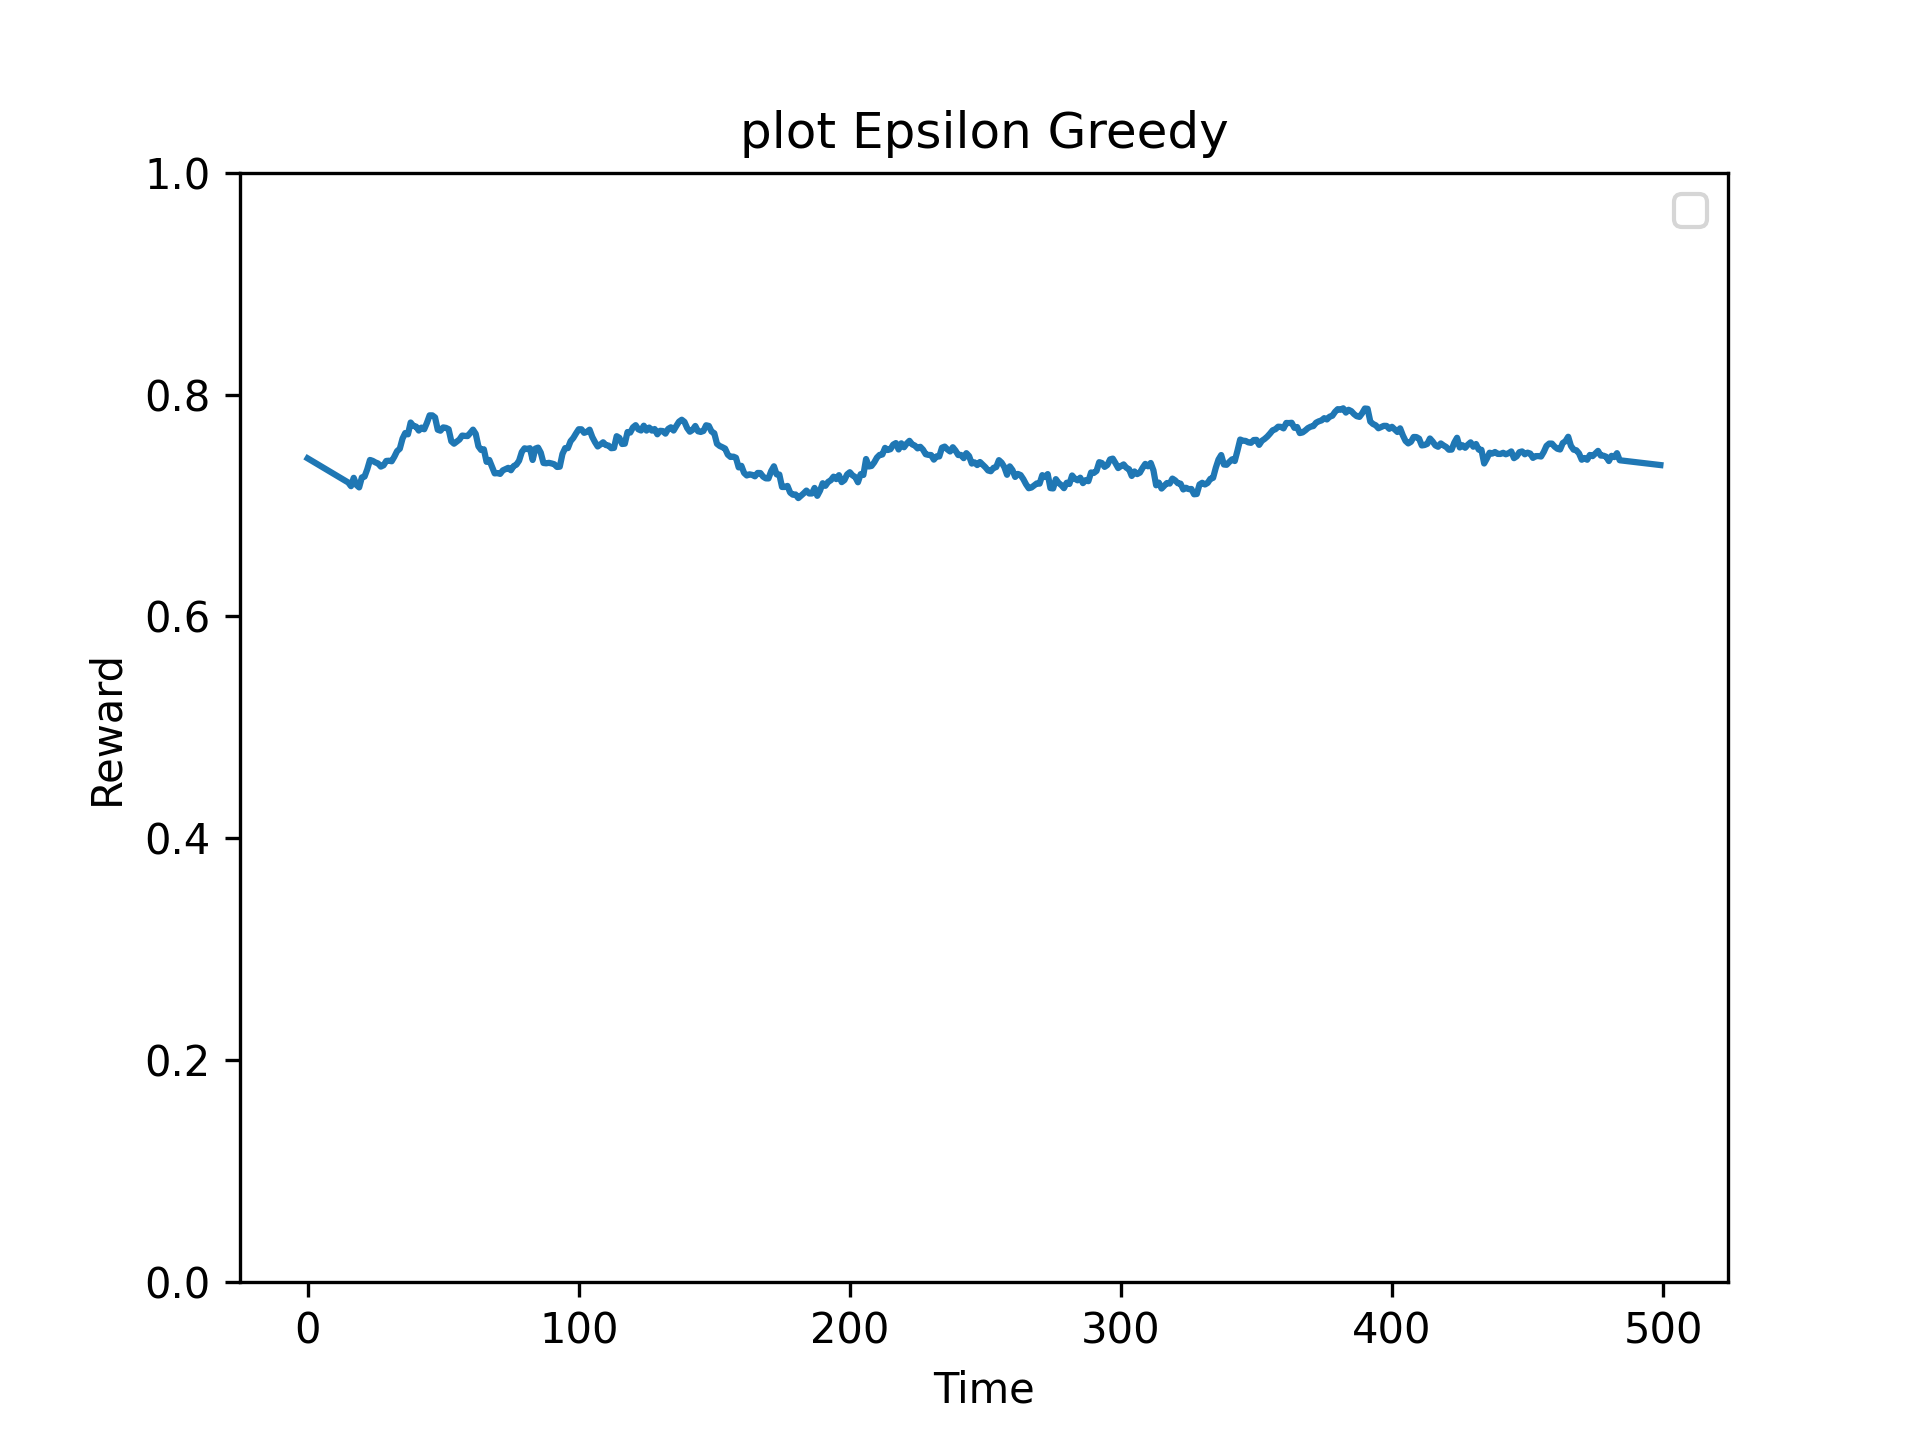
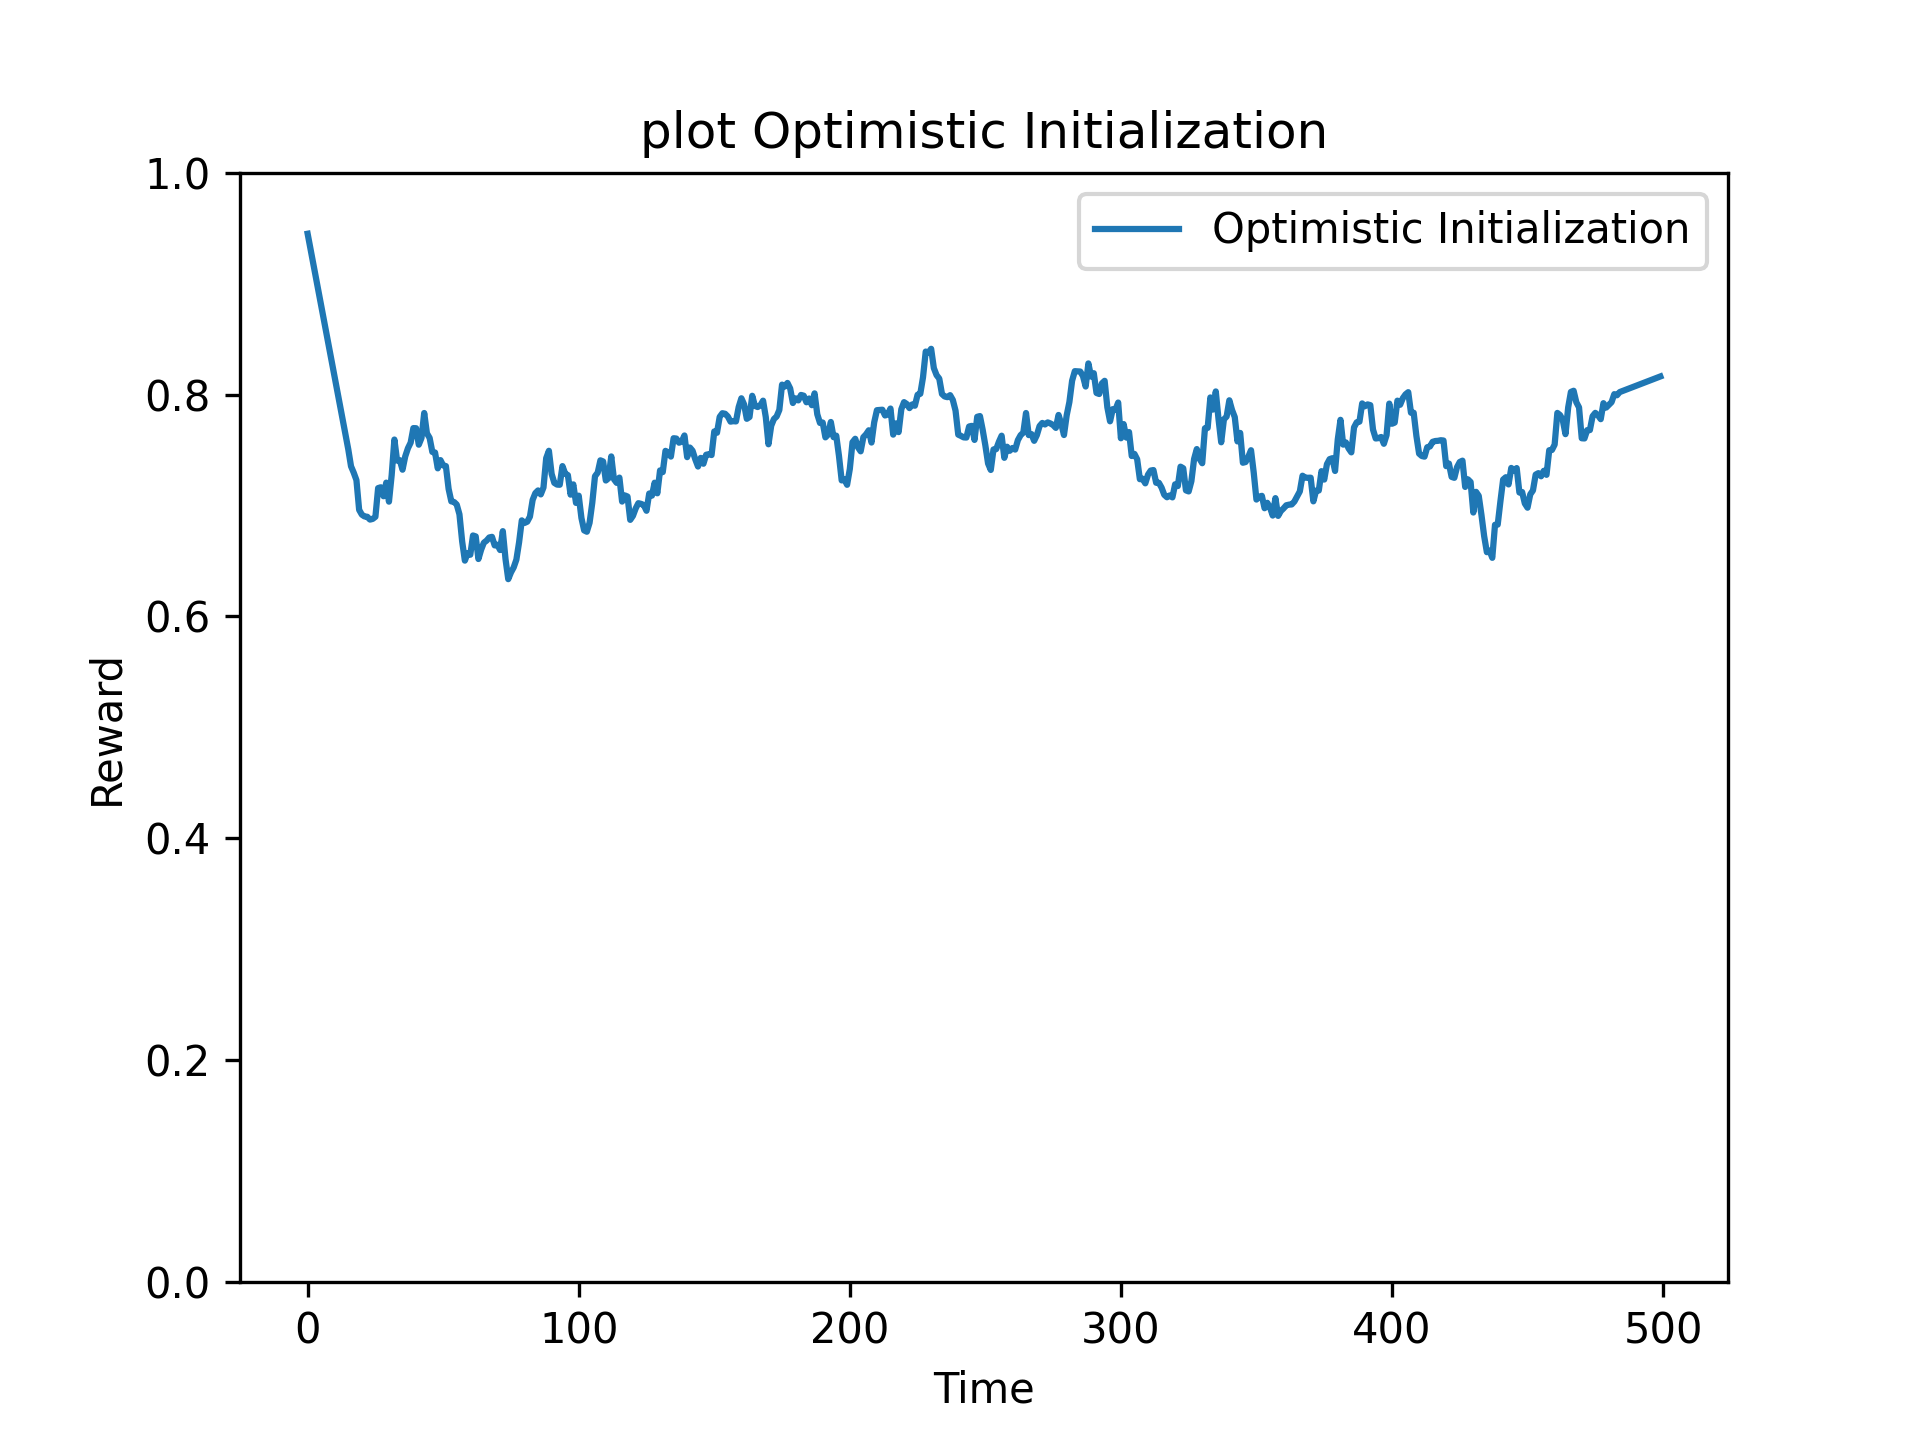
OIPolicy, maar geeft nog niet goeie grafiek

Changed region(s): [[0.1562, 0.1562, 0.875, 0.4062], [0.3438, 0.0625, 0.9062, 0.1875]]

diff --git a/BanditExperiment.py b/BanditExperiment.py
@@ -11,32 +11,68 @@ import numpy as np
 from BanditEnvironment import BanditEnvironment
 from BanditPolicies import EgreedyPolicy, OIPolicy, UCBPolicy
 from Helper import LearningCurvePlot, ComparisonPlot, smooth
+import matplotlib.pyplot as plt
+
  
 
-def experiment(n_actions, n_timesteps, n_repetitions, smoothing_window):
+def experiment(n_actions, n_timesteps, n_repetitions, smoothing_window, assignment):
     #To Do: Write all your experiment code here
     average_reward_list = []
-    plot = LearningCurvePlot("plot Epsilon Greedy") # For da plot
+
+    if assignment == 1:
+        plot = LearningCurvePlot("plot Epsilon Greedy") # For da plot
+    elif assignment == 2:
+        plot = LearningCurvePlot("plot Optimistic Initialization") # For da plot
+    elif assignment == 3:
+        plot = LearningCurvePlot("plot Upper Confidence Bounds") # For da plot
+
     for j in range(n_repetitions):
+        optimal_action_counter = 0
         reward_list = []
-        env = BanditEnvironment(n_actions=n_actions) # Initialize environment 
-        pi = EgreedyPolicy(n_actions=n_actions) # Initialize policy
+        env = BanditEnvironment(n_actions=n_actions) # Initialize environment
+        if assignment == 1:
+            pi = EgreedyPolicy(n_actions=n_actions) # Initialize policy
+        elif assignment == 2:
+            pi = OIPolicy(n_actions=n_actions, initial_value=0.8)
+        elif assignment == 3:
+            pi = UCBPolicy(n_actions=n_actions)
         # print("Mean pay-off per action: {}".format(env.means))
         # print("Best action = {} with mean pay-off {}".format(env.best_action,env.best_average_return))
 
         for i in range(n_timesteps):
-            a = pi.select_action(epsilon=0.25) # select action
+            if assignment == 1:
+                a = pi.select_action(epsilon=0.25) # select action
+            else:
+                a = pi.select_action() # select action
             r = env.act(a) # sample reward
             pi.update(a,r) # update policy
             reward_list.append(r)
+            # print("best_action: ", env.best_action)
+            # print("a: ", a)
+            optimal_action_counter += int(a == env.best_action)
+            # print("optimal_action_counter_updated: ", optimal_action_counter)
             # print("Test e-greedy policy with action {}, received reward {}".format(a,r))
-        average_this_rep = sum(reward_list) / len(reward_list)
-        average_reward_list.append(average_this_rep)
+        
+        if assignment == 2:
+            # print("optimal_action_counter: ", optimal_action_counter)
+            # print("n_timesteps: ", n_timesteps)
+            average_optimal_action_percentage = (optimal_action_counter / n_timesteps)
+            average_reward_list.append(average_optimal_action_percentage)
+        else:
+            average_this_rep = sum(reward_list) / len(reward_list)
+            average_reward_list.append(average_this_rep)
 
         # print(pi.action_val) # printing final values this repetition
     vector_reward = np.array(average_reward_list) # for curve
     vector_reward_smoothed = smooth(vector_reward, smoothing_window)
-    plot.add_curve(vector_reward_smoothed)
+
+    if assignment == 1:
+        plot.add_curve(vector_reward_smoothed, label="Epsilon Greedy")
+    elif assignment == 2:
+        plot.add_curve(vector_reward_smoothed, label="Optimistic Initialization")
+    elif assignment == 3:
+        plot.add_curve(vector_reward_smoothed, label="Upper Confidence Bounds")
+
     plot.save()
     
     # Assignment 1: e-greedy
@@ -46,8 +82,6 @@ def experiment(n_actions, n_timesteps, n_repetitions, smoothing_window):
     # Assignment 3: UCB
     
     # Assignment 4: Comparison
-    
-    pass
 
 if __name__ == '__main__':
     # experiment settings
@@ -55,6 +89,7 @@ if __name__ == '__main__':
     n_repetitions = 500
     n_timesteps = 1000
     smoothing_window = 31
+    assignment = 2
     
     experiment(n_actions=n_actions,n_timesteps=n_timesteps,
-               n_repetitions=n_repetitions,smoothing_window=smoothing_window)
+               n_repetitions=n_repetitions,smoothing_window=smoothing_window,assignment=assignment)

diff --git a/BanditPolicies.py b/BanditPolicies.py
@@ -38,17 +38,25 @@ class OIPolicy:
 
     def __init__(self, n_actions=10, initial_value=0.0, learning_rate=0.1):
         self.n_actions = n_actions
-        # TO DO: Add own code
-        pass
+        self.est_action_val = np.full(n_actions, initial_value)
+        self.learning_rate = learning_rate
         
     def select_action(self):
         # TO DO: Add own code
-        a = np.random.randint(0,self.n_actions) # Replace this with correct action selection
+        #a = np.random.randint(0,self.n_actions) # Replace this with correct action selection
+        # print("est_list: ", self.est_action_val)
+        a = np.argmax(self.est_action_val)
         return a
         
     def update(self,a,r):
-        # TO DO: Add own code
-        pass
+        # print("r: ", r)
+        value = r - self.est_action_val[a]
+        # print("r-old: ", value)
+        # print("old_value: ", self.est_action_val[a])
+        self.est_action_val[a] = self.est_action_val[a] + (self.learning_rate * value)
+        # print("new_value: ", self.est_action_val[a])
+        # print('est list')
+        # print(self.est_action_val)
 
 class UCBPolicy:
 
